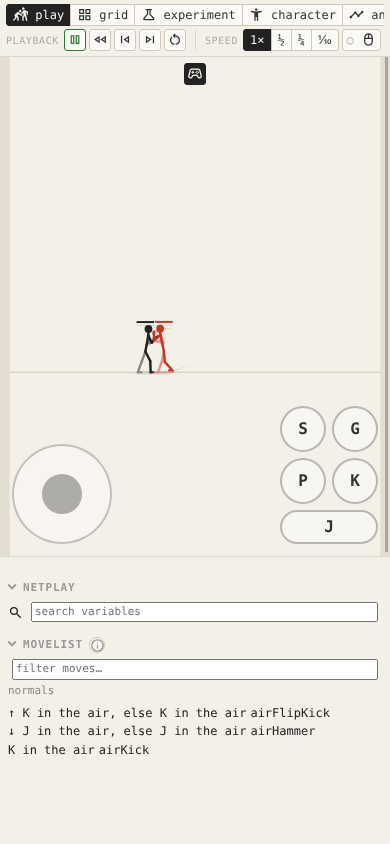
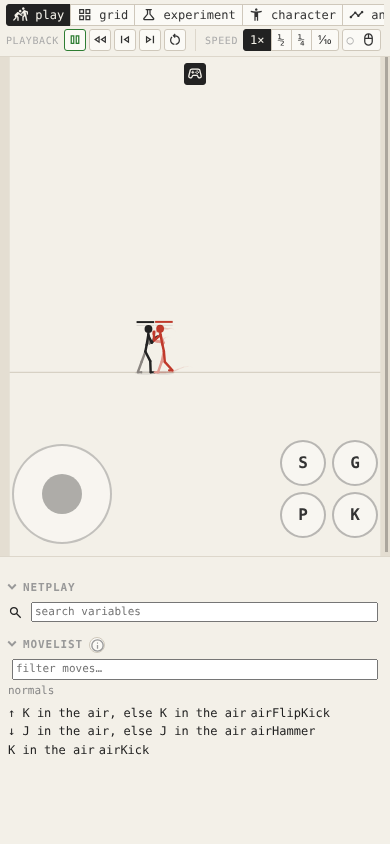
Hide the touch jump button in 2D
In 2D, up on the touch stick already jumps, so the J button only took
space. It now shows only in 2.5D (lanes or belt), where up and down
move in depth and J is the only way to jump. Hiding it also releases
a held jump so no key stays stuck.

Docs (README, interface.md) and the phone screenshot are updated to
match.

Changed region(s): [[0.7077, 0.4929, 0.9846, 0.6469]]

diff --git a/src/ui/touch.js b/src/ui/touch.js
@@ -38,9 +38,11 @@ const tpBtn = (a, label, tip) => {
   b.oncontextmenu = e => e.preventDefault();
   return b;
 };
+// J only in 2.5D: in 2D the stick's up already jumps (tpSync hides it)
+const tpHop = tpBtn('hop', 'J', 'Jump');
 const tbtns = h('div', { cls: 'tbtns' },
   tpBtn('punch', 'P', 'Punch'), tpBtn('kick', 'K', 'Kick'), tpBtn('special', 'S', 'Special'),
-  tpBtn('guard', 'G', 'Guard (hold), parry (tap)'), tpBtn('hop', 'J', 'Jump'));
+  tpBtn('guard', 'G', 'Guard (hold), parry (tap)'), tpHop);
 tpad.append(tpStick, tbtns);
 $('stage').append(tpad);
 // a small corner switch on a touch screen: the pad off (to watch, or a keyboard plugged in) and back on
@@ -56,6 +58,8 @@ function tpSync() {
   if (show !== tpShown) { tpShown = show; tpad.hidden = !show; if (!show) { tpStickEnd(); for (const a of FIGHT) keys.delete(a); } }
   tswitch.hidden = !(tpCoarse.matches || ui.touchPad) || !inFight();
   tswitch.classList.toggle('on', tpWanted());
+  const flat = (mode().worlds?.()[0]?.cfg ?? CFG).plane === '2d';
+  if (tpHop.hidden !== flat) { tpHop.hidden = flat; keys.delete('hop'); tpHop.classList.remove('on'); }
   requestAnimationFrame(tpSync);
 }
 tpSync();

diff --git a/docs/interface.md b/docs/interface.md
@@ -230,7 +230,7 @@ Save what you watch as an animated GIF or a WebM video.
 
 stick2 runs on a phone or tablet in the browser, nothing to install.
 
-- On a touch screen, an on-screen pad shows whenever a fighter is yours: a stick on the left (eight directions, with a dead zone in the middle) and **P K S G J** on the right. It presses the same keys the keyboard does, so fights, replays and online matches can't tell the two apart.
+- On a touch screen, an on-screen pad shows whenever a fighter is yours: a stick on the left (eight directions, with a dead zone in the middle) and **P K S G** on the right, plus **J** (jump) in 2.5D, where up moves in depth; in 2D, up on the stick jumps. It presses the same keys the keyboard does, so fights, replays and online matches can't tell the two apart.
 - The controller button at the top of the stage turns the pad off or back on; the choice is saved. On a screen with a mouse, `touchPad(true)` in the console turns it on.
 - A finger on the stage acts as the mouse.
 - Under 760 px wide, the stage sits above the side panel and the toolbars scroll sideways. A short landscape screen keeps the side panel beside the stage, narrower. Popups fit the screen, and buttons and fields get bigger under a finger.

diff --git a/README.md b/README.md
@@ -35,7 +35,7 @@ Any scenario named anywhere in these docs plays the same way: `https://morbeo.gi
 
 ![The play tab's netplay section with an invite ready](docs/img/netplay.png)
 
-**Play on a phone.** On a touch screen an on-screen stick and P/K/S/G/J buttons appear whenever a fighter is yours, and the layout stacks to fit. → [Interface: phones and tablets](docs/interface.md#phones-and-tablets)
+**Play on a phone.** On a touch screen an on-screen stick and P/K/S/G buttons (plus J to jump in 2.5D) appear whenever a fighter is yours, and the layout stacks to fit. → [Interface: phones and tablets](docs/interface.md#phones-and-tablets)
 
 <img src="docs/img/phone.png" alt="stick2 on a phone, with the touch pad" width="260">
 
